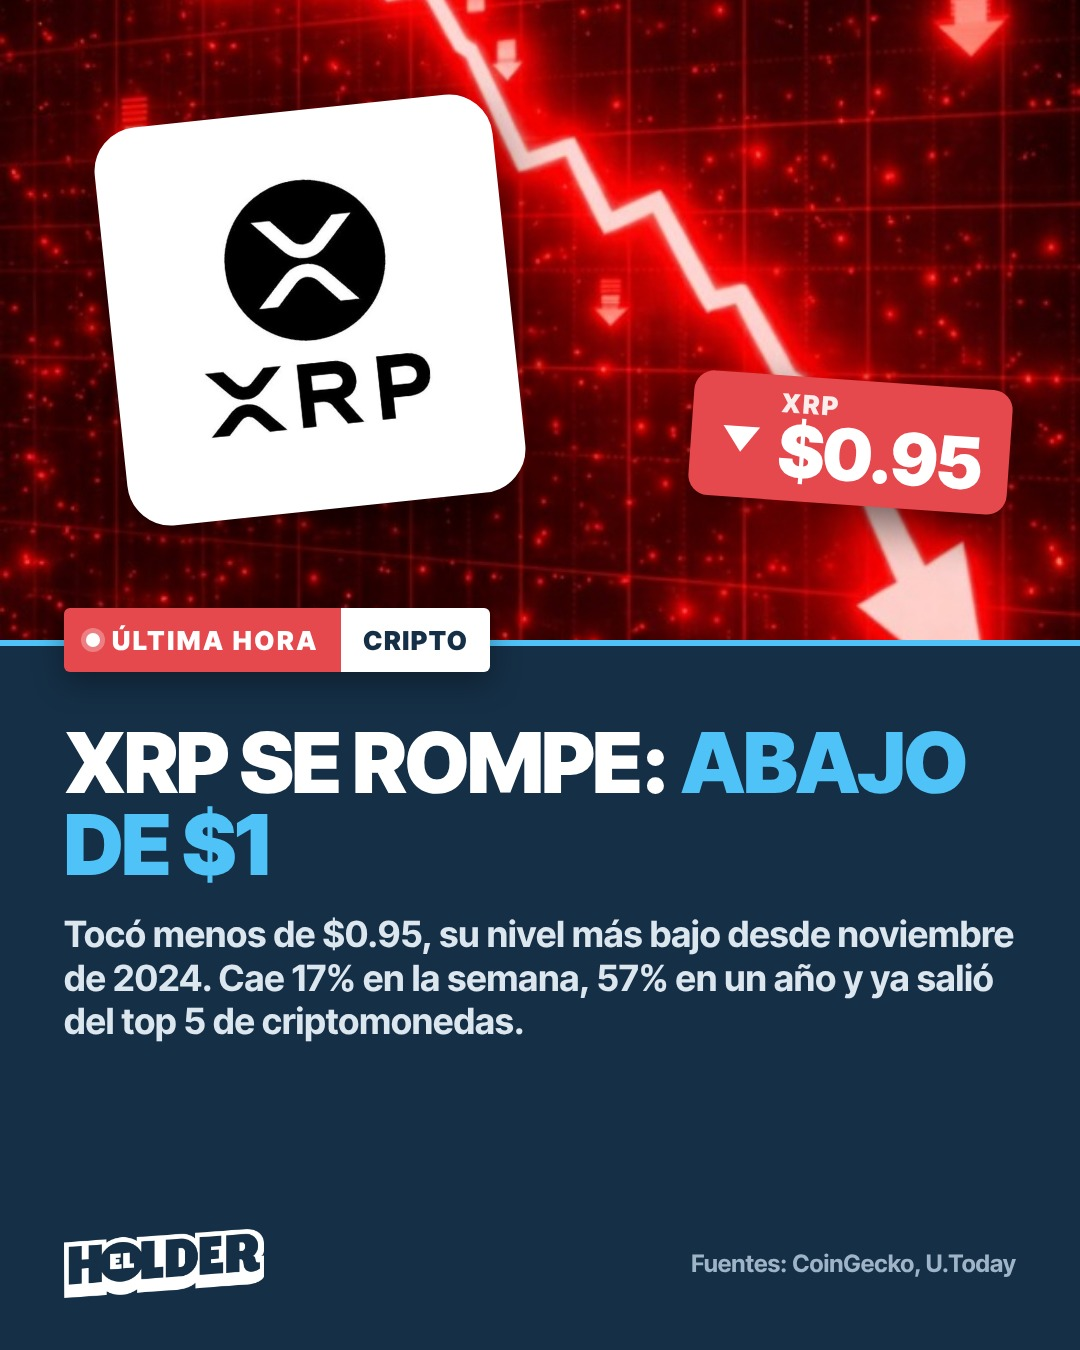
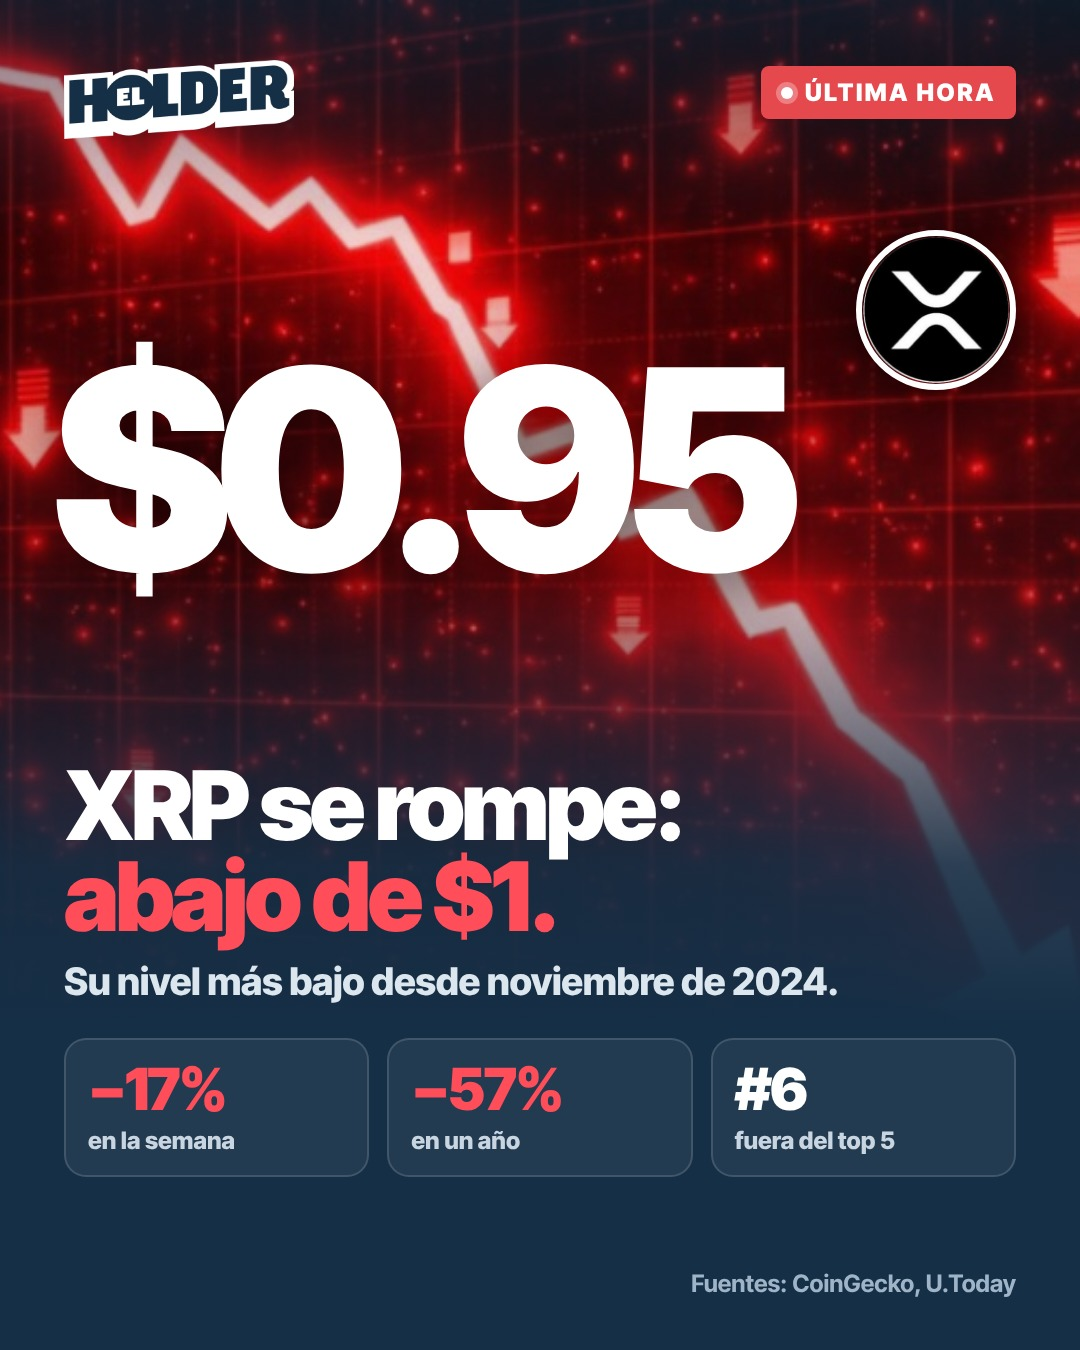
XRP: nuevo diseño de portada
Claude-Session: https://claude.ai/code/session_011HtJt2a4sBpoKNENnst7wy

diff --git a/noticias/2026-11-14-xrp-bajo-un-dolar/src/portada2.html b/noticias/2026-11-14-xrp-bajo-un-dolar/src/portada2.html
@@ -1,0 +1,40 @@
+<!doctype html><html><head><meta charset="utf-8"><style>
+@font-face{font-family:'IT';font-weight:700;src:url('../../../fonts/inter-tight-latin-700-normal.woff2')}
+@font-face{font-family:'IT';font-weight:800;src:url('../../../fonts/inter-tight-latin-800-normal.woff2')}
+@font-face{font-family:'IT';font-weight:900;src:url('../../../fonts/inter-tight-latin-900-normal.woff2')}
+html,body{margin:0}*{box-sizing:border-box}
+body{width:1080px;height:1350px;position:relative;overflow:hidden;background:#152F46;font-family:'IT';color:#fff}
+#bg{position:absolute;inset:0;background:url(foto.jpg) center/cover}
+#capa{position:absolute;inset:0;background:linear-gradient(180deg,rgba(21,47,70,.55) 0%,rgba(21,47,70,.05) 18%,rgba(21,47,70,.15) 42%,rgba(21,47,70,.9) 64%,#152F46 76%)}
+#logo{position:absolute;left:64px;top:60px;width:230px}
+#chip{position:absolute;right:64px;top:66px;display:flex;align-items:center;gap:12px;background:#E5484D;border-radius:8px;padding:12px 20px;font-weight:900;font-size:24px;letter-spacing:.1em}
+#chip i{width:12px;height:12px;border-radius:50%;background:#fff;box-shadow:0 0 0 5px rgba(255,255,255,.3)}
+#mark{position:absolute;right:64px;top:230px;width:160px;height:160px;border-radius:50%;background:url(xrp-mark.png) center/cover;border:6px solid #fff;box-shadow:0 18px 50px rgba(0,0,0,.6)}
+#price{position:absolute;left:52px;top:330px;font-size:280px;font-weight:900;letter-spacing:-.07em;line-height:1;text-shadow:0 12px 60px rgba(0,0,0,.6)}
+#t{position:absolute;left:64px;right:64px;top:760px}
+#t p{margin:16px 0 0;font-size:38px;font-weight:800;color:#DCE6EF;letter-spacing:-.01em}
+h1{margin:0;font-size:96px;font-weight:900;line-height:.95;letter-spacing:-.04em}
+h1 span{color:#FF4D5A}
+.stats{display:flex;gap:18px;margin-top:34px}
+.st{flex:1;background:rgba(255,255,255,.06);border:2px solid rgba(255,255,255,.14);border-radius:22px;padding:20px 22px}
+.st b{display:block;font-size:58px;font-weight:900;letter-spacing:-.04em;line-height:1;color:#FF4D5A}
+.st span{display:block;margin-top:8px;font-size:24px;font-weight:800;color:#C9D6E2}
+#pie{position:absolute;left:64px;right:64px;bottom:52px;display:flex;justify-content:flex-end}
+#pie span{font-size:24px;font-weight:700;color:#9FB4C7}
+</style></head><body>
+<div id="bg"></div><div id="capa"></div>
+<img id="logo" src="../../../brand/logo-horizontal-transparente.png">
+<div id="chip"><i></i>ÚLTIMA HORA</div>
+<div id="mark"></div>
+<div id="price">$0.95</div>
+<div id="t">
+  <h1>XRP se rompe:<br><span>abajo de $1.</span></h1>
+  <p>Su nivel más bajo desde noviembre de 2024.</p>
+  <div class="stats">
+    <div class="st"><b>−17%</b><span>en la semana</span></div>
+    <div class="st"><b>−57%</b><span>en un año</span></div>
+    <div class="st"><b style="color:#fff">#6</b><span>fuera del top 5</span></div>
+  </div>
+</div>
+<div id="pie"><span>Fuentes: CoinGecko, U.Today</span></div>
+</body></html>
